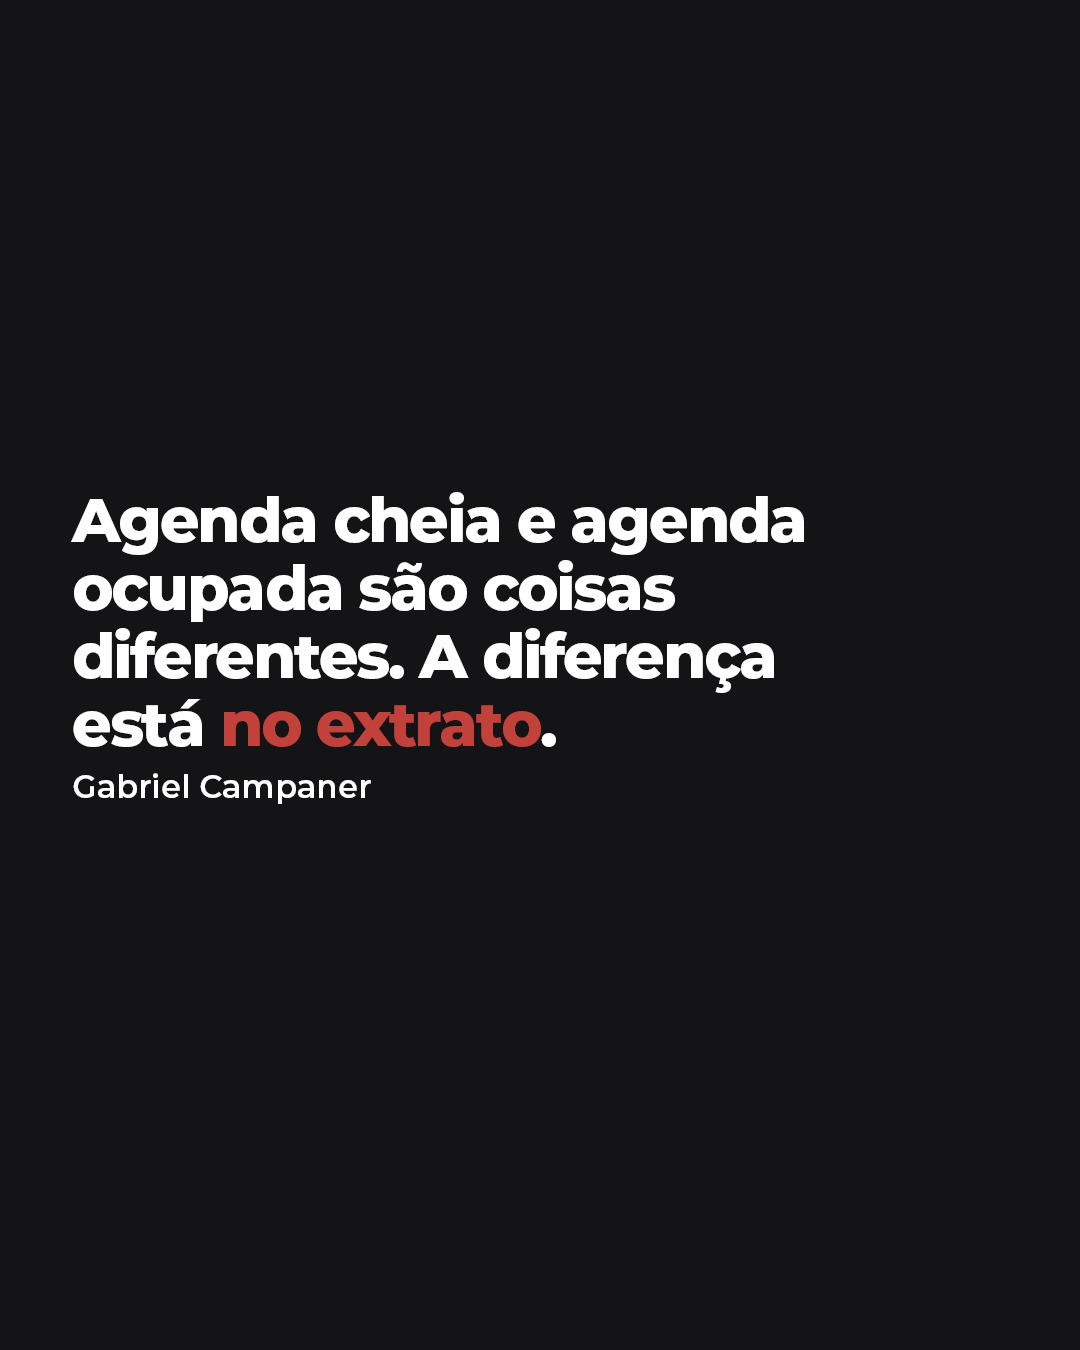
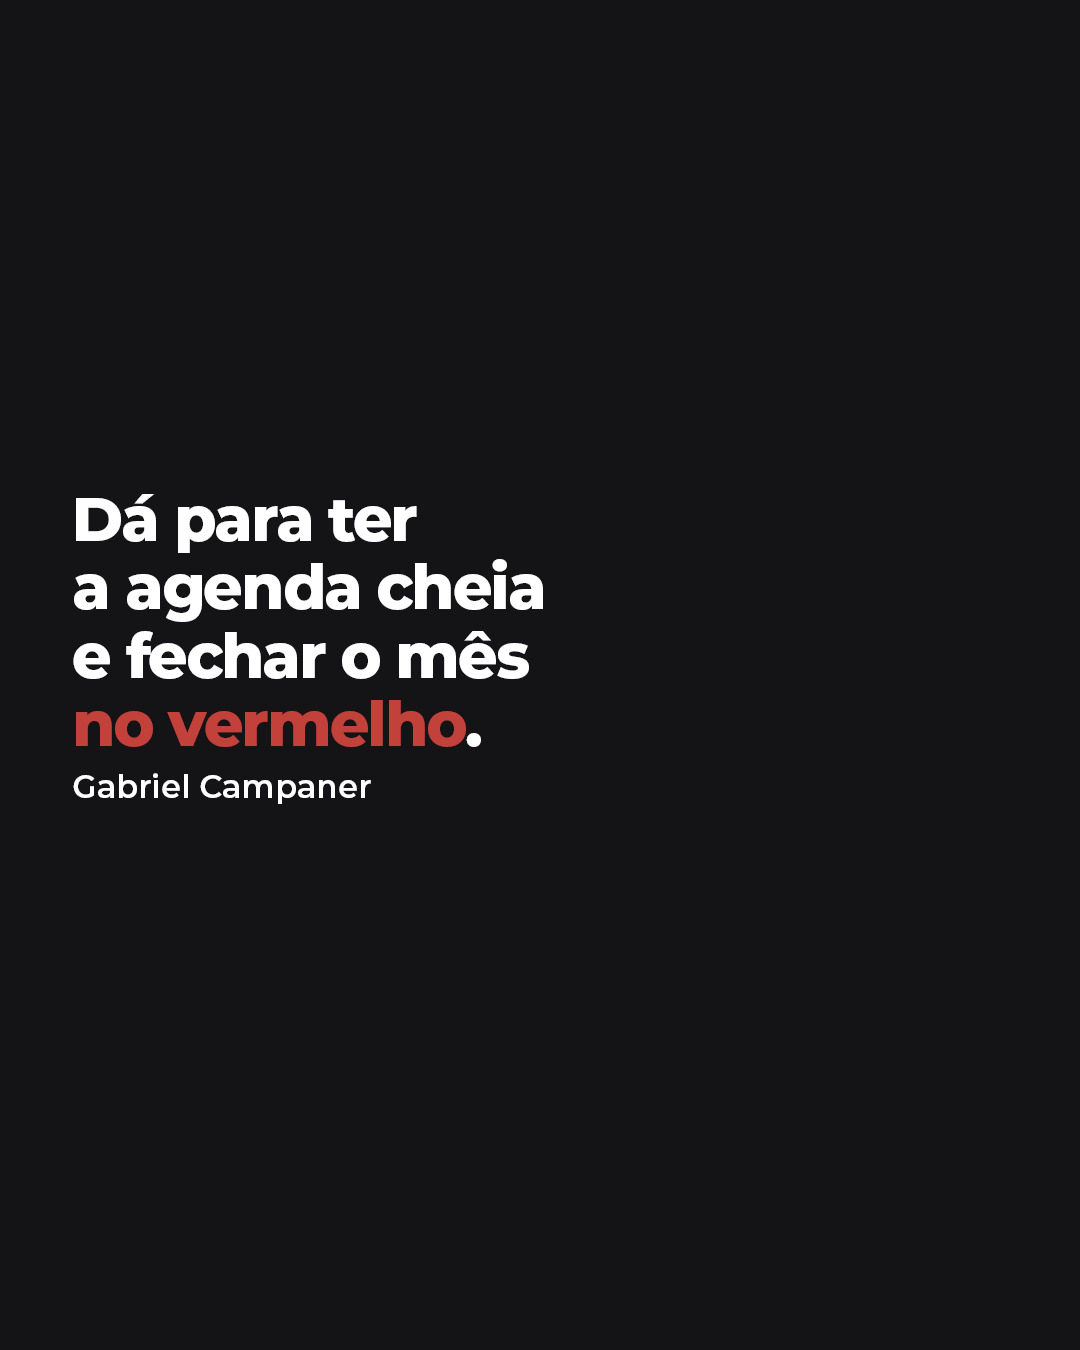
Calendário: 74 agendados, 3 pendentes

Changed region(s): [[0.0611, 0.3422, 0.7639, 0.56]]

diff --git a/AGENDA.md b/AGENDA.md
@@ -1,6 +1,6 @@
 # Agenda do Instagram da GC
 
-Gerada em 20/10/2026, 13:53:43. 74 posts agendados, 3 pendentes. Stories com enquete e caixinha são feitos à mão, no dia do post.
+Gerada em 20/10/2026, 14:28:06. 74 posts agendados, 3 pendentes. Stories com enquete e caixinha são feitos à mão, no dia do post.
 
 
 ## terça, 20/10
@@ -26,14 +26,14 @@ Gerada em 20/10/2026, 13:53:43. 74 posts agendados, 3 pendentes. Stories com enq
 
 ## sexta, 23/10
 
-- **06h30 · FR-04 · A sua recepção agenda, confirma, cobra e atende telefone ao mesmo tempo. Isso não é atendimento. É sorte.** (imagem)
+- **06h30 · FR-04 · Recepção que atende telefone, balcão e WhatsApp ao mesmo tempo não atende ninguém.** (imagem)
   - Stories: Repostar nos Stories com a pergunta da enquete do dia por cima.
 - **18h30 · GC-13 · O paciente não avalia a sua resina** (carrossel)
   - Stories: Manhã: a clínica odontológica do cliente, sem pacientes. Tarde: enquete "Dentista: o que mais trava a sua clínica hoje?" · Agenda vazia / Orçamento que não fecha.
 
 ## sábado, 24/10
 
-- **06h30 · FR-05 · Gestão é o que acontece na terça-feira às 9h, quando o paciente pergunta o valor e alguém precisa saber responder.** (imagem)
+- **06h30 · FR-05 · Se só você sabe passar o valor, a clínica para quando você atende.** (imagem)
   - Stories: Repostar nos Stories com a pergunta da enquete do dia por cima.
 - **18h30 · GC-09 · O teste das 21h** (carrossel)
   - Stories: 21h: "Começou o teste. Manda a mensagem agora." Na manhã seguinte: controle deslizante "Quanto tempo a sua clínica levou?" e caixinha com os tempos (sem nomes).
@@ -47,14 +47,14 @@ Gerada em 20/10/2026, 13:53:43. 74 posts agendados, 3 pendentes. Stories com enq
 
 ## segunda, 26/10
 
-- **06h30 · FR-07 · Todo mundo quer atender. Ninguém quer cuidar do retorno.** (imagem)
+- **06h30 · FR-07 · Todo mundo quer atender. Ninguém liga para quem não voltou.** (imagem)
   - Stories: Repostar nos Stories com a pergunta da enquete do dia por cima.
 - **18h30 · GC-01 · A hora vazia** (carrossel)
   - Stories: telas prontas em Conteudo/2026-10-13_stories-hora (ST-GC-01: enquete, R$ 89, caixinha)
 
 ## terça, 27/10
 
-- **06h30 · FR-09 · Agenda cheia e agenda ocupada são coisas diferentes. A diferença está no extrato.** (imagem)
+- **06h30 · FR-09 · Dá para ter a agenda cheia e fechar o mês no vermelho.** (imagem)
   - Stories: Repostar nos Stories com a pergunta da enquete do dia por cima.
 - **18h30 · GC-03 · Laudo da Semana 01** (carrossel)
 
@@ -78,7 +78,7 @@ Gerada em 20/10/2026, 13:53:43. 74 posts agendados, 3 pendentes. Stories com enq
 
 ## sábado, 31/10
 
-- **06h30 · L3-05 · A explicação que recebeu** (imagem)
+- **06h30 · L3-05 · Acha caro o que ninguém explicou** (imagem)
   - Stories: Repost com enquete: "Concorda?" · Concordo / Discordo (a opção que divide gera resposta).
 - **18h30 · paciente-problema · Toda clínica atende os quatro. Toda semana.** (carrossel)
 
@@ -111,8 +111,8 @@ Gerada em 20/10/2026, 13:53:43. 74 posts agendados, 3 pendentes. Stories com enq
 
 ## quinta, 05/11
 
-- **08h30 · L3-34 · 84% pelo celular** (imagem)
-  - Stories: Teste: "Abre o perfil da sua clínica no celular agora. Em 5 segundos, dá para marcar?"
+- **08h30 · L3-34 · 33% fora do horário** (imagem)
+  - Stories: Enquete: "A sua clínica responde mensagem depois das 18h?" · Responde / Só no dia seguinte.
 - **18h30 · GC-06 · Black Friday: desconto ou acesso?** (carrossel)
 
 ## sexta, 06/11
